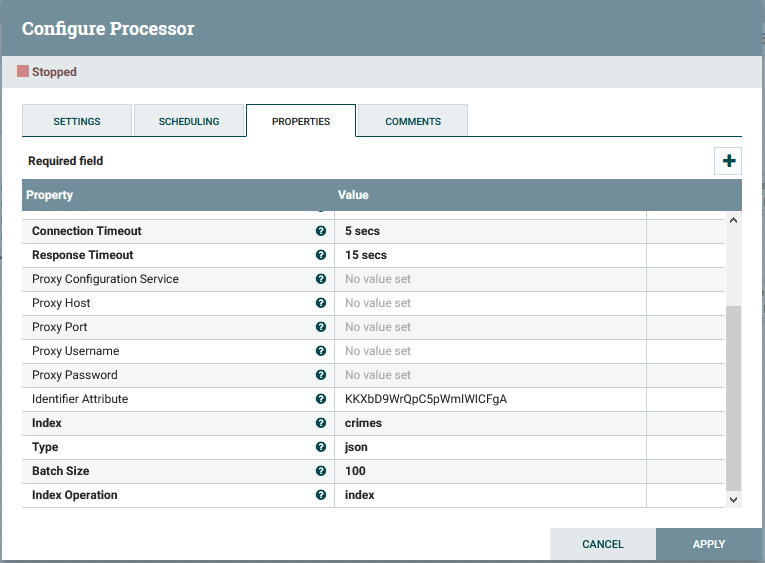
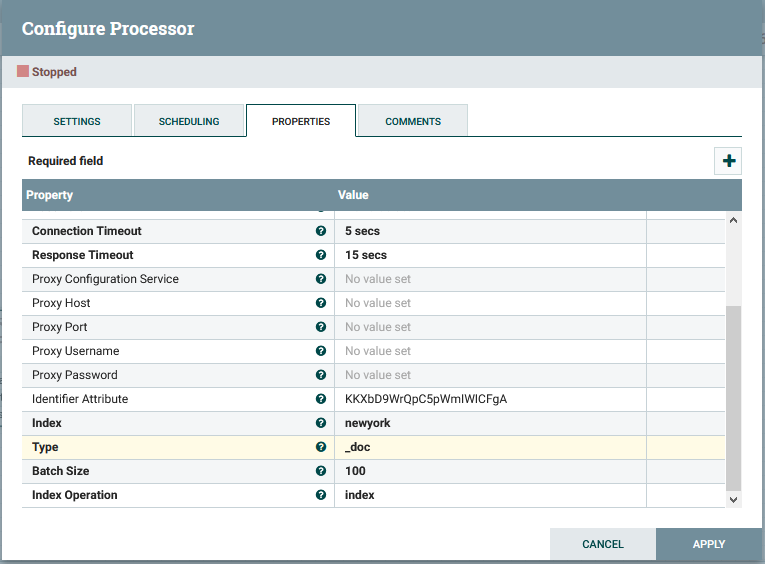
update readmes

diff --git a/Entregable_2/README.md b/Entregable_2/README.md
@@ -65,7 +65,13 @@ Componetes usados:
 
 <img src="./images/elastic.PNG"/>
 
-*url: http://elasticsearch:9200*
+*Elasticsearch URL: http://elasticsearch:9200*
+
+*Index: newyork (nombre del indice)*
+
+*Type: _doc*
+
+*Index Operation: index*
 
 **Resumen Nifi**
 
@@ -75,13 +81,13 @@ Componetes usados:
 
 Dentro de [Kibana](http://localhost:5601) en Management -> Index Management
 
-Comprobamos que se ha creado el indice y están los documentos
+Comprobamos que se ha creado el índice y están los documentos
 
 **Reindexar**
 
-Para conseguir que "location" sea de tipo "geo_point" hay que crear un nuevo indice con este tipo y acumular en este los documentos.
+Para conseguir que "location" sea de tipo "geo_point" hay que crear un nuevo índice con este tipo y acumular en este los documentos.
 
-Desde Kibana en DevTools:
+Desde Kibana -> DevTools:
 
 ```
 PUT /crimes_re
@@ -109,7 +115,7 @@ POST _reindex
 
 **Visualizar los datos**
 
-Desde Kibana en Visualize, creamos uno nuevo (Create new visualization) y seleccionamos Coordinate Map
+Desde Kibana -> Visualize, creamos uno nuevo (Create new visualization) y seleccionamos Coordinate Map
 
 <img src="./images/visualize.PNG"/>
 
@@ -117,7 +123,7 @@ Desde Kibana en Visualize, creamos uno nuevo (Create new visualization) y selecc
 
 **Resultado final**
 
-Creamos un dashboard y añadimos las visualizaciones
+Desde Kibana -> Dashborard, creamos un dashboard (Create new dashboard) y añadimos las visualizaciones
 
 <img src="./images/dashboard.PNG"/>
 
@@ -128,6 +134,13 @@ Creamos un dashboard y añadimos las visualizaciones
 Repetir el proceso anterior.
 
 **Visualizar los datos conjuntos**
-En el apartado Maps de [Kibana](http://localhost:5601) añadimos una capa por cada indice(ciudad).
+
+En el apartado Maps de [Kibana](http://localhost:5601) creamos un nuevo mapa y añadimos una capa por cada indice(ciudad).
+
+Pulsamos sobre "Add Layer" y como fuente seleccionamos "Documents", seleccionamos el índice que queramos añadir y por ultimo pulsamos en Add layer.
+
+Repetimos este paso por cada índice(ciudad) que queramos añadir.
+
+Por últimos, pulsamos en "Save" antes de salir
 
 <img src="./images/maps.PNG"/>

diff --git a/README.md b/README.md
@@ -6,9 +6,25 @@ Repositorio del Master de Data Analytics de la Escuela de Empresarios de Valenci
 
 **Curso 2020/2021** 
 
-1. [Docker](https://github.com/juanluishg/edemMDA/tree/master/docker)
-2. [Tratamiento del Dato](https://github.com/juanluishg/edemMDA/tree/master/Tratamiento_del_Dato)
-3. [Programación Estadística con Python](https://github.com/juanluishg/edemMDA/tree/master/Programacion)
+- [Calidad del Dato](https://github.com/juanluishg/edemMDA/tree/master/Calidad_De_Datos)
+
+- [Carga y Recogida del Dato](https://github.com/juanluishg/edemMDA/tree/master/Carga_y_Recogida_Datos)
+
+- [Docker](https://github.com/juanluishg/edemMDA/tree/master/docker)
+
+- [Entregable 1](https://github.com/juanluishg/edemMDA/tree/master/Tratamiento_del_Dato/Entregable_1)
+
+- [Entregable 2](https://github.com/juanluishg/edemMDA/tree/master/Entregable_2)
+
+- [Ingestión del Dato](https://github.com/juanluishg/edemMDA/tree/master/Ingestion_De_Datos): Templates y Flows de Nifi
+
+- [Preparación del Dato](https://github.com/juanluishg/edemMDA/tree/master/Preparacion_De_Datos)
+
+- [Programación Estadística con Python](https://github.com/juanluishg/edemMDA/tree/master/Programacion)
+
+- [Tratamiento del Dato](https://github.com/juanluishg/edemMDA/tree/master/Tratamiento_del_Dato)
+
+  
 
 
 Juan Luis Hernández García
